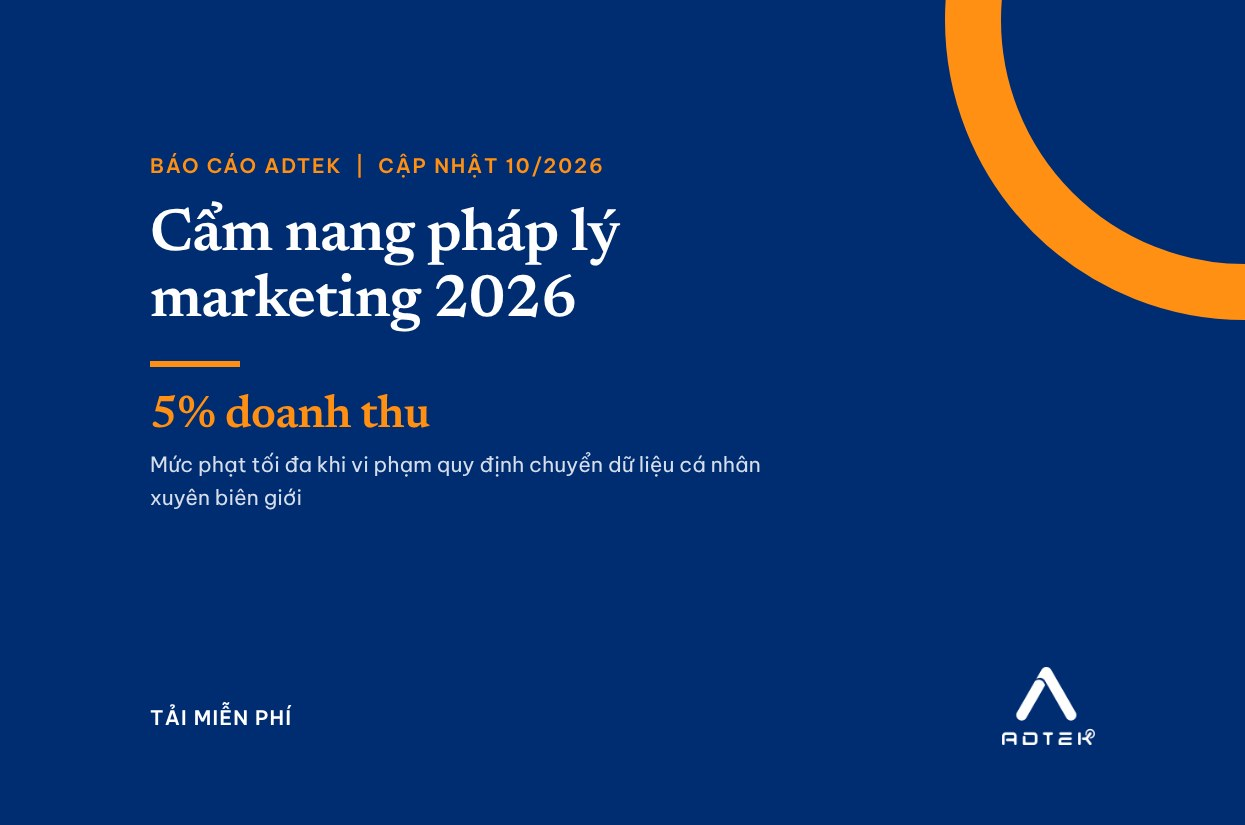
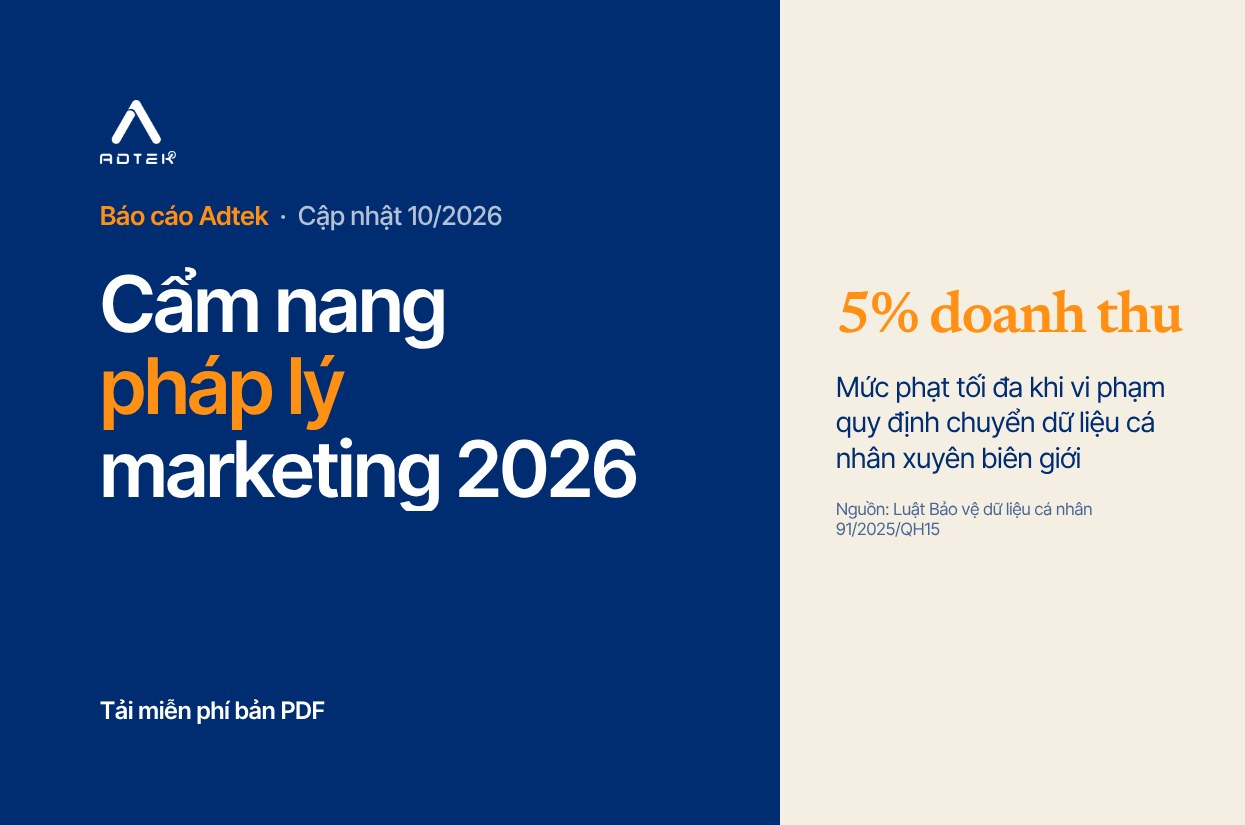
Report covers: 'Báo cáo Adtek' series template (report_cover), rebuild 4 report thumbnails
Claude-Session: https://claude.ai/code/session_01Wp8F7EosGPrY7v6XwBpRSM

diff --git a/tools/report_pdf.py b/tools/report_pdf.py
@@ -7,6 +7,7 @@ Kết quả (cùng thư mục):
 
 Cách dùng:
   python3 tools/report_pdf.py <slug> [<slug> ...]
+  python3 tools/report_pdf.py --thumb <slug> [<slug> ...]   chỉ dựng lại ảnh đại diện, không dựng PDF
   python3 tools/report_pdf.py all
 """
 import html
@@ -17,7 +18,7 @@ from pathlib import Path
 
 from pypdf import PdfWriter
 
-from covers import ASSETS, NAVY, ORANGE, font_css
+from covers import ASSETS, NAVY, ORANGE, REPORT_SIZE, font_css, report_cover, shoot
 
 ROOT = Path(__file__).resolve().parent.parent
 DIR = ROOT / "content/reports"
@@ -175,36 +176,24 @@ def back_page(r):
 
 
 def thumb(r):
-    s = r["key_stats"][0]
-    return f"""<!doctype html><html><head><meta charset="utf-8"><style>{CSS}
-body{{width:1245px;height:825px;overflow:hidden;background:{NAVY};color:#fff;position:relative}}</style></head><body>
-<div style="position:absolute;right:-300px;top:-280px;width:600px;height:600px;border-radius:50%;border:56px solid {ORANGE}"></div>
-<div style="position:absolute;left:150px;right:420px;top:150px">
- <div class="eyebrow" style="font-size:20px">Báo cáo Adtek &nbsp;|&nbsp; {esc(r["period"])}</div>
- <div class="nr" style="font-size:60px;line-height:1.1;margin:22px 0 26px;text-wrap:balance">{esc(r.get("short_title") or r["title"])}</div>
- <div style="height:6px;width:90px;background:{ORANGE};margin-bottom:26px"></div>
- <div class="nr" style="font-size:46px;color:{ORANGE};line-height:1">{esc(s["value"])}</div>
- <div style="font-size:21px;color:#D6DEEB;margin-top:10px">{esc(s["label"])}</div>
-</div>
-<img src="{uri("adtek-logo-white.png")}" alt="Adtek" style="position:absolute;right:150px;bottom:80px;height:78px">
-<div style="position:absolute;left:150px;bottom:92px;font-size:20px;font-weight:600;letter-spacing:.06em;color:#fff">TẢI MIỄN PHÍ</div>
-</body></html>"""
+    """Ảnh đại diện 1245x825 theo series "Báo cáo Adtek" trong tools/covers.py (report_cover)."""
+    return report_cover(r)
 
 
 def build(slug):
     r = json.loads((DIR / f"{slug}.json").read_text(encoding="utf-8"))
     tmp = ROOT / "previews/_report"
     tmp.mkdir(parents=True, exist_ok=True)
-    parts = {"cover": cover_page(r), "body": body_page(r), "back": back_page(r), "thumb": thumb(r)}
+    parts = {"cover": cover_page(r), "body": body_page(r), "back": back_page(r)}
     for k, v in parts.items():
         (tmp / f"{k}.html").write_text(v, encoding="utf-8")
     foot = f"Adtek  |  {r.get('short_title') or r['title']}"
     jobs = [{"input": str(tmp / "cover.html"), "output": str(tmp / "cover.pdf")},
             {"input": str(tmp / "body.html"), "output": str(tmp / "body.pdf"), "margin": "16mm", "footer": esc(foot)},
-            {"input": str(tmp / "back.html"), "output": str(tmp / "back.pdf")},
-            {"input": str(tmp / "thumb.html"), "output": str(DIR / f"{slug}-cover.jpg"), "kind": "jpg", "width": 1245, "height": 825}]
+            {"input": str(tmp / "back.html"), "output": str(tmp / "back.pdf")}]
     (tmp / "jobs.json").write_text(json.dumps(jobs), encoding="utf-8")
     subprocess.run(["node", str(ROOT / "tools/render_pdf.js"), str(tmp / "jobs.json")], check=True)
+    shoot([(thumb(r), DIR / f"{slug}-cover.jpg", *REPORT_SIZE)])  # ảnh đại diện: cùng bộ dựng với ảnh bìa blog (co chữ, logo)
     w = PdfWriter()
     for k in ("cover", "body", "back"):
         w.append(str(tmp / f"{k}.pdf"))
@@ -219,6 +208,13 @@ def build(slug):
 
 
 if __name__ == "__main__":
-    slugs = [p.stem for p in sorted(DIR.glob("*.json"))] if sys.argv[1:] == ["all"] else sys.argv[1:]
+    args = sys.argv[1:]
+    only_thumb = "--thumb" in args
+    args = [a for a in args if a != "--thumb"]
+    slugs = [p.stem for p in sorted(DIR.glob("*.json"))] if args == ["all"] else args
     for s in slugs:
-        build(s)
+        if only_thumb:
+            r = json.loads((DIR / f"{s}.json").read_text(encoding="utf-8"))
+            print(shoot([(thumb(r), DIR / f"{s}-cover.jpg", *REPORT_SIZE)])[0])
+        else:
+            build(s)

diff --git a/tools/covers.py b/tools/covers.py
@@ -407,6 +407,43 @@ h1{{font-weight:900;line-height:1.12}}
     return css, body
 
 
+# ---------------------------------------------------------------- ảnh bìa báo cáo (Trung Tâm Tài Nguyên)
+
+REPORT_SIZE = (1245, 825)
+# Bốn phối màu cho series "Báo cáo Adtek": (nền, chữ, khối số liệu, chữ khối, màu số). Cùng bố cục, khác màu theo chủ đề.
+REPORT_THEMES = [(NAVY, "#fff", CREAM, NAVY, ORANGE), (NAVY, "#fff", ORANGE, NAVY, NAVY),
+                 (CREAM, NAVY, NAVY, "#fff", ORANGE), (CREAM, NAVY, ORANGE, NAVY, NAVY)]
+
+
+def report_cover(r):
+    """Ảnh đại diện báo cáo 1245x825: bên trái nhãn series, tên báo cáo, lời mời tải; bên phải khối màu chứa một số liệu chính
+    (số trên, nhãn ngay dưới). Chữ trong vùng y 100 đến 725 để Facebook cắt 1.91:1 và thẻ 370x250 vẫn đủ chữ.
+    r: nội dung JSON báo cáo; r["cover"] (không bắt buộc): title (có *từ khóa*), stat (chỉ số trong key_stats), theme (0 đến 3)."""
+    c = r.get("cover") or {}
+    bg, fg, panel, pfg, numc = REPORT_THEMES[c.get("theme", 0) % len(REPORT_THEMES)]
+    st = r["key_stats"][c.get("stat", 0)]
+    w, h = REPORT_SIZE
+    css = f"""
+body{{background:{bg};color:{fg}}}
+.lg{{position:absolute;left:100px;top:100px}}
+.copy{{position:absolute;left:100px;width:600px;top:200px;bottom:100px;display:flex;flex-direction:column}}
+.series{{font-weight:600;font-size:26px;color:{ORANGE}}}
+.series span{{color:{fg};opacity:.7;font-weight:500}}
+h1{{font-size:78px;line-height:1.06;margin-top:24px;max-height:4.3em}}
+.dl{{margin-top:auto;font-weight:600;font-size:24px}}
+.panel{{position:absolute;left:780px;right:0;top:0;bottom:0;background:{panel};color:{pfg};padding:0 60px 0 56px;display:flex;flex-direction:column;justify-content:center}}
+.panel .num{{font-size:104px;line-height:.9;color:{numc};white-space:nowrap}}
+.panel .lab{{font-size:28px;line-height:1.28;margin-top:22px;max-height:6.5em}}
+.panel .src{{font-size:17px;margin-top:22px;opacity:.7}}
+{'.panel .hl{color:inherit}' if panel == ORANGE else ''}"""
+    body = f"""<div class="lg">{logo(fg, 64)}</div>
+<div class="copy"><div class="series">Báo cáo Adtek <span>&nbsp;·&nbsp; {esc(r.get("period", ""))}</span></div>
+<h1 class="fit bal">{hl(c.get("title") or r.get("short_title") or r["title"])}</h1><div class="dl">Tải miễn phí bản PDF</div></div>
+<div class="panel"><div class="num fit">{esc(st["value"])}</div><div class="lab fit">{esc(st["label"])}</div>
+<div class="src">Nguồn: {esc(st.get("source", ""))}</div></div>"""
+    return document(css, body, w, h)
+
+
 # Phong cách dùng chung cho mọi bài (xoay vòng), phong cách theo chủ đề (chỉ dùng khi bài hợp),
 # và phong cách chỉ dùng khi ghi tay cover.style (không tự chọn).
 GENERIC = {"editorial": editorial, "split": split, "mark": mark, "stack": stack, "poster": poster}

diff --git a/logs/changelog.md b/logs/changelog.md
@@ -122,3 +122,4 @@
 | 2026-10-17 00:10 | Ảnh bìa blog xuất gấp đôi độ phân giải (bố cục 1200x630, file 2400x1260) để nét trong khung 870px trên màn Retina (phương án A anh Tin chọn với phiên Web dev): render_cover.js nhận scale (deviceScaleFactor), covers.py SCALE blog = 2, Facebook giữ 1080. Dựng lại ảnh bìa bài 1 đến 6, 10, 16 và bài cũ 6076, 6078; README, blog_post.py ghi khổ mới | tools, content/posts, README | Chờ theme có cỡ 1740x724 rồi phiên Blog post tải lại |
 | 2026-10-16 23:15 | Tải ảnh bìa kiểu chữ mới 1200x630 (phiên Designer 2c284ff) cho bài 1-6: media 6159, 6161, 6162, 6163, 6164, 6165, xóa ảnh cũ. Dừng trước bài 10, 16, 6076, 6078 vì phiên Designer đã có bản 2400x1260 (17e43ad); sẽ tải bản 2400x1260 cho cả 10 bài khi phiên Web dev báo theme có cỡ 1740x724 trên site | Bài 6086, 6088, 6093, 6096, 6112, 6114 | Một phần, chờ theme |
 | 2026-10-16 22:30 | Thanh thông tin đầu trang (.hd-top, chỉ hiện trên desktop) của các trang con: nền ảnh chuyển màu footer trang chủ (ft-bg.jpg, cover, cắt dải 75%) thay cho navy phẳng #002842. CSS trong header.php. Ảnh xem trước previews/header-thanh-tren.png | Theme monatheme (header.php) | Chờ upload |
+| 2026-10-17 00:40 | Ảnh đại diện báo cáo Trung Tâm Tài Nguyên (yêu cầu của phiên Quản lý Trung Tâm Tài Nguyên): series "Báo cáo Adtek" 1245x825, bên trái nhãn series, tên báo cáo Inter Tight có từ khóa tô cam, lời mời tải; bên phải khối màu chứa một số liệu chính (số Newsreader trên, nhãn dưới), 4 phối màu theo chủ đề; chữ trong vùng cắt 1.91:1 và 370x250. Hàm report_cover trong tools/covers.py, report_pdf.py thumb() dùng hàm này, thêm --thumb; trường cover (title, stat, theme) trong 4 file JSON; dựng lại 4 ảnh. Nhánh claude/report-covers (gộp claude/loving-turing-2fs2ff và claude/brave-curie-2c6zbc) | tools/covers.py, tools/report_pdf.py, content/reports | Chờ phiên Tài Nguyên merge và anh Tin xem |
